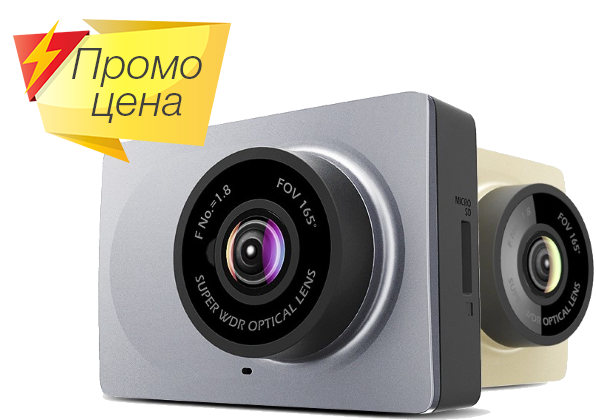
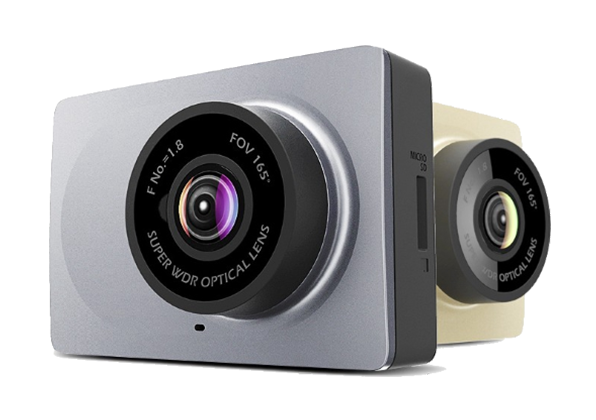
-

diff --git a/app/includes/yi-dash.html b/app/includes/yi-dash.html
@@ -94,7 +94,7 @@
             гарантирует отличное качество даже ночью. Вы можете записывать свои ночные прогулки, не беспокоясь об освещении.</p>
     </div>
 </section>
-<section class="row yi-dash-promo">
+<!-- <section class="row yi-dash-promo">
     <div class="col-xs-12 col-sm-6 col-md-5 col-md-offset-1 col-lg-4 col-lg-offset-2">
         <h2>Выгодно купить в Электросиле</h2>
         <p>В период с 1.07.2018 по 31.07.2018 вы можете сэкономить 7% купив видеорегистратор YI Dash в магазинах сети Электросила</p>
@@ -108,7 +108,7 @@
             <span>139.90 руб</span>
         </div>
     </div>
-</section>
+</section> -->
 <section class="row yi-dash-case">
     <div class="col-xs-12 col-sm-12 col-md-4 col-lg-4 align-center">
         <img src="../img/yi-dash-bottom.png" alt="">
